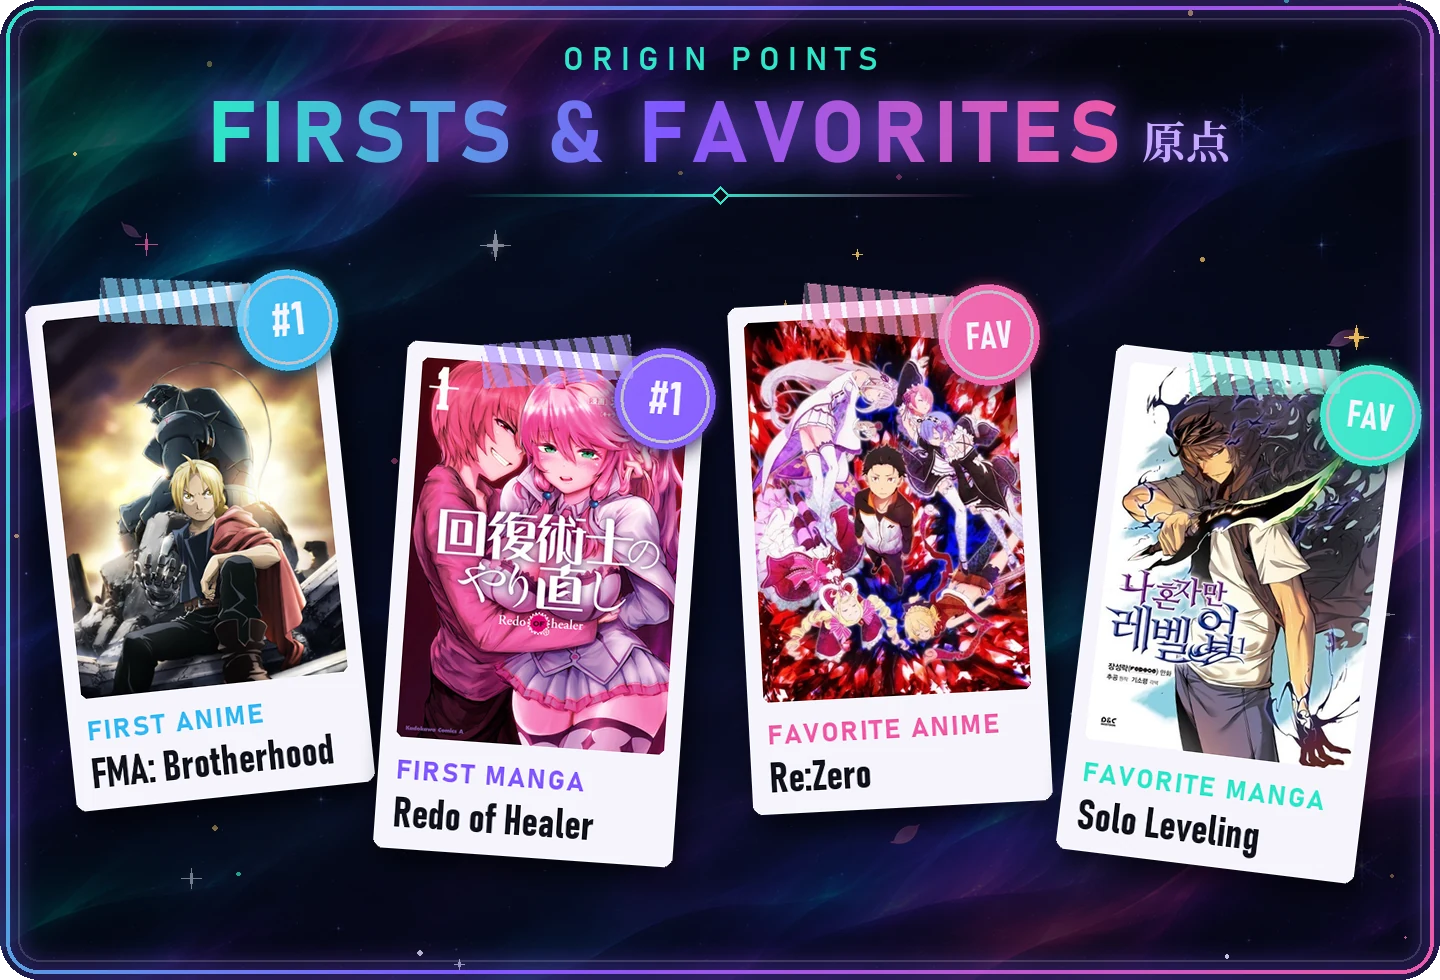
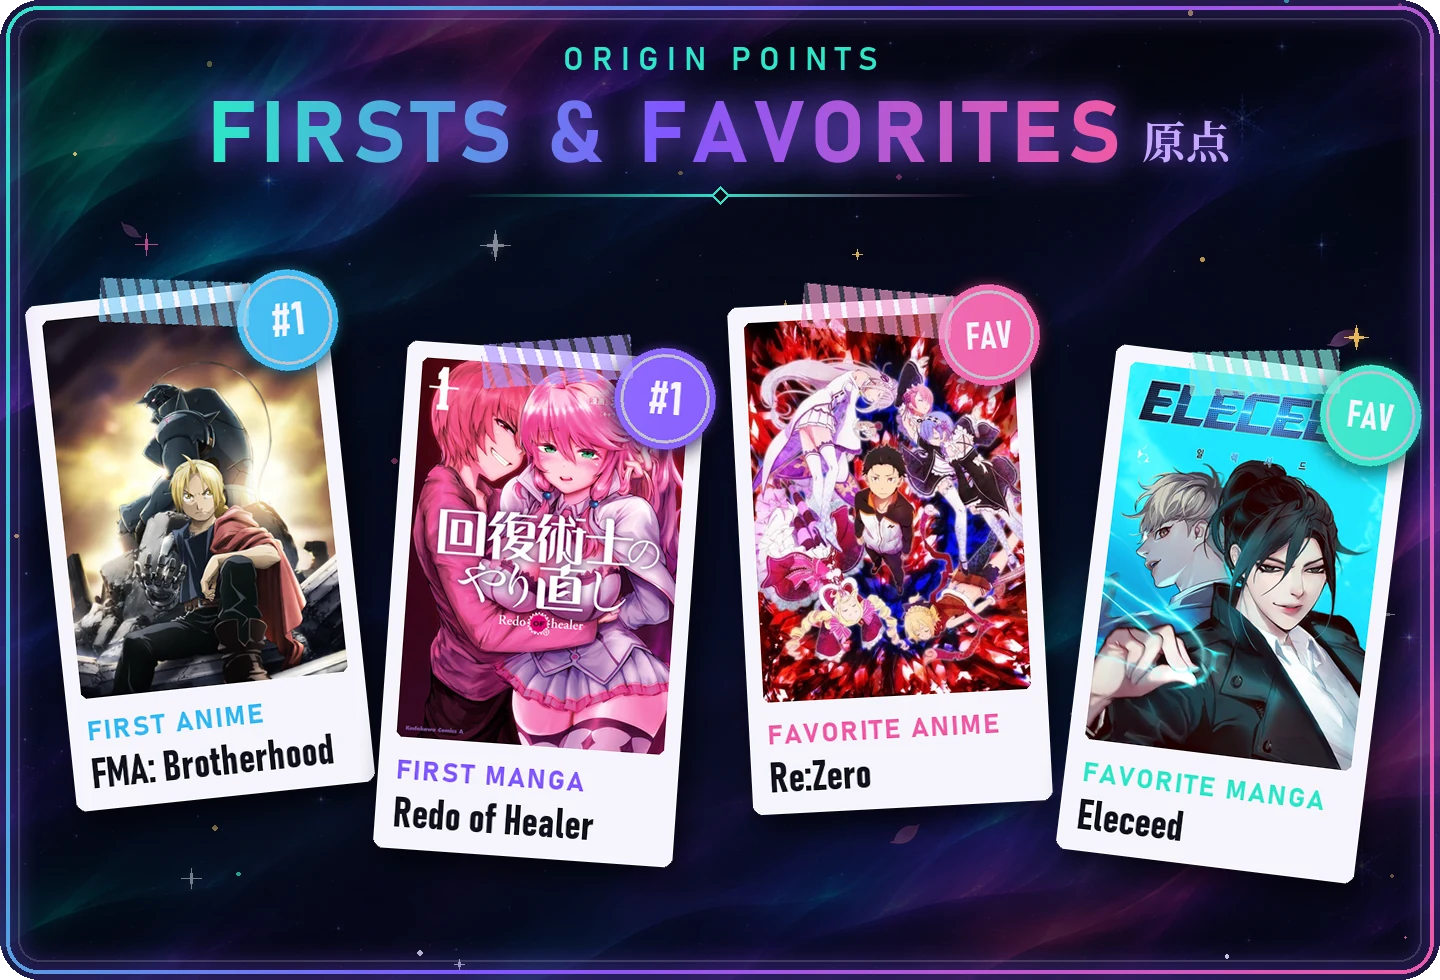
feat: sunflower favorite kanji, Eleceed favorite, roomier genre hexes
- Favorite kanji is now 向日葵 (himawari, sunflower) in a golden vertical
  seal with a Codex-made sunflower; the sunflower also replaces 愛 in the
  small separator
- Favorite manga: Eleceed instead of Solo Leveling
- Genre hexes: text block moved up so the rank line and its diamonds no
  longer crowd the narrowing hex edges
- fetch_covers.py: send a User-Agent, AniList returns 403 to urllib's

Changed region(s): [[0.75, 0.3673, 0.9688, 0.7959], [0.75, 0.7959, 0.875, 0.8878]]

diff --git a/build/panels.py b/build/panels.py
@@ -69,10 +69,13 @@ def soft_glow_spot(img, box, col, alpha, blur):
 
 # ---------------------------------------------------------------- intro
 
+SUN = [(0, (255, 240, 160)), (0.5, GOLD), (1, (255, 150, 60))]  # 向日葵 section
+
+
 def intro():
-    H = 1180
+    H = 1330
     img = panel_base(H, focus=(0.2, 0.5))
-    soft_glow_spot(img, (-200, 700, 500, 1300), MAGENTA, 70, 120)
+    soft_glow_spot(img, (-200, 300, 400, 800), MAGENTA, 50, 120)
     rem = Image.open(ART / "intro-rem.png").convert("RGBA")
     rh = 1280
     rem = rem.resize((round(rem.width * rh / rem.height), rh), Image.LANCZOS)
@@ -85,7 +88,7 @@ def intro():
     soft_glow_spot(img, (900, 80, 1420, 600), VIOLET, 90, 90)
     soft_glow_spot(img, (1000, 500, 1500, 1000), MINT, 50, 110)
     img.alpha_composite(rem, (W - rem.width + 70, 10))
-    sp = particles(img.size, 70, 7, rmax=9, colours=(ICE, MAGENTA, LACE, MINT))
+    sp = particles(img.size, 70, 7, rmax=9, colours=(ICE, MAGENTA, GOLD, MINT))
     a = np.asarray(sp.getchannel("A"), np.float32)
     a[:, :840] *= 0.25  # keep sparkles mostly off the text column
     sp.putalpha(Image.fromarray(a.astype(np.uint8), "L"))
@@ -102,24 +105,30 @@ def intro():
     ], 40, 760, 58)
 
     y = section_title(img, end + 44, "PROFILE  //  02", "FAVORITE KANJI", "好きな漢字", x=x, align="l",
-                      jp_on_label=True, stops=MINT_PINK, glow=VIOLET, label_col=MINT)
-    sx, sy, ss = x, y + 30, 230
-    seal = Image.new("RGBA", (ss, ss), (0, 0, 0, 0))
-    ImageDraw.Draw(seal).rounded_rectangle((0, 0, ss - 1, ss - 1), 30, fill=rgba(SATIN, 230))
-    frame = card_frame((ss + 40, ss + 40), 34, 5, MINT_PINK, MAGENTA, 20)
+                      jp_on_label=True, stops=SUN, glow=GOLD, label_col=GOLD)
+    # 向日葵 (himawari, sunflower) written vertically in a tall golden seal
+    sx, sy, sw, sh = x, y + 30, 210, 470
+    soft_glow_spot(img, (sx - 120, sy - 60, sx + sw + 260, sy + sh + 80), GOLD, 60, 90)
+    seal = Image.new("RGBA", (sw, sh), (0, 0, 0, 0))
+    ImageDraw.Draw(seal).rounded_rectangle((0, 0, sw - 1, sh - 1), 30, fill=rgba(SATIN, 235))
     img.alpha_composite(seal, (sx, sy))
-    img.alpha_composite(frame, (sx - 20, sy - 20))
-    draw_text(img, (sx + ss // 2, sy + ss // 2 - 14), "愛", font("serifjp", 150, "Black"),
-              anchor="mm", gradient_stops=ICE_PINK, glow=MAGENTA, glow_radius=18)
-    draw_text(img, (sx + ss // 2, sy + ss - 28), "あい", font("sansjp", 26, "Medium"), fill=SILVER,
+    img.alpha_composite(card_frame((sw + 40, sh + 40), 34, 5, SUN, GOLD, 20), (sx - 20, sy - 20))
+    for i, ch in enumerate("向日葵"):
+        draw_text(img, (sx + sw // 2, sy + 96 + i * 124), ch, font("serifjp", 112, "Black"), anchor="mm",
+                  gradient_stops=SUN, glow=GOLD, glow_radius=16)
+    draw_text(img, (sx + sw // 2, sy + sh - 30), "ひまわり", font("sansjp", 26, "Medium"), fill=SILVER,
               anchor="mm", tracking=6, shadow=False)
-    ribbon_x(ImageDraw.Draw(img), sx + ss - 4, sy + 4, 12, MAGENTA, 6)
-    draw_rich(img, sx + ss + 50, sy + 6, [
-        ("My favorite kanji is", False, LACE), ("愛.", True, MAGENTA), ("It's read as", False, LACE),
-        ("\"ai\"", True, ICE), ("meaning", False, LACE), ("\"Love\".", True, MAGENTA),
-        ("I like it because love drives us and the kanji itself is so amazing looking!", False, LACE),
+    flower = Image.open(ART / "sunflower.png").convert("RGB")
+    sticker = black_to_alpha(np.asarray(flower.resize((130, 130), Image.LANCZOS), np.float32), floor=12)
+    img.alpha_composite(sticker, (sx + sw - 70, sy - 62))
+    cy = draw_rich(img, sx + sw + 50, sy + 10, [
+        ("My favorite kanji is", False, LACE), ("向日葵.", True, GOLD), ("It's read as", False, LACE),
+        ("\"himawari\",", True, GOLD), ("meaning", False, LACE), ("\"Sunflower\".", True, GOLD),
+        ("I like it because it's just so pretty!", False, LACE),
     ], 36, 410, 52)
-    save(finish_card(img, stops=ICE_PINK), "intro.webp")
+    big = black_to_alpha(np.asarray(flower.resize((230, 230), Image.LANCZOS), np.float32), floor=12)
+    img.alpha_composite(big, (sx + sw + 40, max(cy + 6, sy + sh - 230)))
+    save(finish_card(img, stops=[(0, ICE), (0.5, MAGENTA), (1, GOLD)]), "intro.webp")
 
 
 # ---------------------------------------------------------------- stats ("tech" chamfered card)
@@ -276,7 +285,7 @@ def firsts():
         ("fmab.jpg", "#1", "FIRST ANIME", "FMA: Brotherhood", BLUE, 6, 200, 0),
         ("redo.jpg", "#1", "FIRST MANGA", "Redo of Healer", VIOLET, -4, 540, 60),
         ("rezero.jpg", "FAV", "FAVORITE ANIME", "Re:Zero", MAGENTA, 3, 890, 10),
-        ("solo.jpg", "FAV", "FAVORITE MANGA", "Solo Leveling", MINT, -7, 1235, 70),
+        ("eleceed.jpg", "FAV", "FAVORITE MANGA", "Eleceed", MINT, -7, 1235, 70),
     ]
     base_cy = y + 330
     for f, mark, label, title, col, angle, cx, dy in items:
@@ -316,26 +325,26 @@ def genre_hex(img, cx, cy, r, name, count, col, emblem):
     gl.putalpha(ring)
     img.alpha_composite(blur_glow(gl, 18, 2.0))
     img.alpha_composite(fill)
-    art = Image.open(ART / f"genre-{emblem}.png").convert("RGB").resize((210, 210), Image.LANCZOS)
-    img.alpha_composite(black_to_alpha(np.asarray(art, np.float32), floor=12), (cx - 105, cy - 196))
+    art = Image.open(ART / f"genre-{emblem}.png").convert("RGB").resize((196, 196), Image.LANCZOS)
+    img.alpha_composite(black_to_alpha(np.asarray(art, np.float32), floor=12), (cx - 98, cy - 206))
     g = gradient(w, h, [(0, mix(col, LACE, 0.5)), (1, col)], "d")
     g.putalpha(ring)
     img.alpha_composite(g)
-    draw_text(img, (cx, cy + 58), name, font("bahn", 50, "Bold"), fill=LACE, anchor="ms", tracking=4)
+    draw_text(img, (cx, cy + 34), name, font("bahn", 50, "Bold"), fill=LACE, anchor="ms", tracking=4)
     num_f, lab_f = font("bahn", 60, "Bold Condensed"), font("bahn", 28, "SemiBold")
     num, lab = str(count), "  TITLES"
     total = num_f.getlength(num) + lab_f.getlength(lab)
     x0 = cx - total / 2
-    draw_text(img, (x0, cy + 116), num, num_f, fill=col, anchor="ls", glow=col, glow_radius=10)
-    draw_text(img, (x0 + num_f.getlength(num), cy + 116), lab, lab_f, fill=SILVER, anchor="ls", shadow=False)
+    draw_text(img, (x0, cy + 92), num, num_f, fill=col, anchor="ls", glow=col, glow_radius=10)
+    draw_text(img, (x0 + num_f.getlength(num), cy + 92), lab, lab_f, fill=SILVER, anchor="ls", shadow=False)
     # rank as tracked text between two diamonds: a chip would poke out of the narrowing hex
     rank = rank_for(count)
     rf = font("bahn", 27, "Bold")
     rw = rf.getlength(rank) + 5 * (len(rank) - 1)
-    draw_text(img, (cx, cy + 158), rank, rf, fill=mix(col, LACE, 0.35), anchor="ms", tracking=5, shadow=False)
+    draw_text(img, (cx, cy + 134), rank, rf, fill=mix(col, LACE, 0.35), anchor="ms", tracking=5, shadow=False)
     d = ImageDraw.Draw(img)
-    for sx in (cx - rw / 2 - 22, cx + rw / 2 + 22):
-        diamond(d, sx, cy + 148, 7, fill=rgba(col))
+    for sx in (cx - rw / 2 - 20, cx + rw / 2 + 20):
+        diamond(d, sx, cy + 124, 6, fill=rgba(col))
 
 
 def genres():
@@ -377,9 +386,9 @@ def separator_sigil():
     d = ImageDraw.Draw(img)
     for dx in (-300, -200, 200, 300):
         diamond(d, W // 2 + dx, cy, 7, fill=rgba(MINT if dx < 0 else MAGENTA))
-    diamond(d, W // 2, cy, 34, fill=rgba(VOID, 255), outline=rgba(ICE), width=3)
-    draw_text(img, (W // 2, cy + 2), "愛", font("serifjp", 34, "Black"), anchor="mm",
-              gradient_stops=ICE_PINK, glow=MAGENTA, glow_radius=8, shadow=False)
+    diamond(d, W // 2, cy, 36, fill=rgba(VOID, 255), outline=rgba(GOLD), width=3)
+    flower = Image.open(ART / "sunflower.png").convert("RGB").resize((58, 58), Image.LANCZOS)
+    img.alpha_composite(black_to_alpha(np.asarray(flower, np.float32), floor=12), (W // 2 - 29, cy - 29))
     save(img, "sep-sigil.webp", quality=92)
 
 

diff --git a/build/fetch_covers.py b/build/fetch_covers.py
@@ -4,22 +4,29 @@ import urllib.request
 
 from common import COVERS
 
-QUERY = """query { Page { media(id_in: [21355, 99263, 1575, 5114, 105398, 100476]) {
+QUERY = """query { Page { media(id_in: [21355, 99263, 1575, 5114, 106929, 100476]) {
   id coverImage { extraLarge } bannerImage } } }"""
-NAMES = {21355: "rezero", 99263: "shield", 1575: "geass", 5114: "fmab", 105398: "solo", 100476: "redo"}
+NAMES = {21355: "rezero", 99263: "shield", 1575: "geass", 5114: "fmab", 106929: "eleceed", 100476: "redo"}
+# AniList answers 403 to Python's default user agent
+UA = {"User-Agent": "makogai-anilist-profile-build/1.0"}
+
+
+def download(url, path):
+    with urllib.request.urlopen(urllib.request.Request(url, headers=UA)) as r:
+        path.write_bytes(r.read())
 
 
 def main():
     req = urllib.request.Request(
         "https://graphql.anilist.co", data=json.dumps({"query": QUERY}).encode(),
-        headers={"Content-Type": "application/json", "Accept": "application/json"})
+        headers={"Content-Type": "application/json", "Accept": "application/json", **UA})
     media = json.load(urllib.request.urlopen(req))["data"]["Page"]["media"]
     COVERS.mkdir(parents=True, exist_ok=True)
     for m in media:
         name = NAMES[m["id"]]
-        urllib.request.urlretrieve(m["coverImage"]["extraLarge"], COVERS / f"{name}.jpg")
+        download(m["coverImage"]["extraLarge"], COVERS / f"{name}.jpg")
         if name == "rezero":
-            urllib.request.urlretrieve(m["bannerImage"], COVERS / "rezero_banner.jpg")
+            download(m["bannerImage"], COVERS / "rezero_banner.jpg")
         print("fetched", name)
 
 
